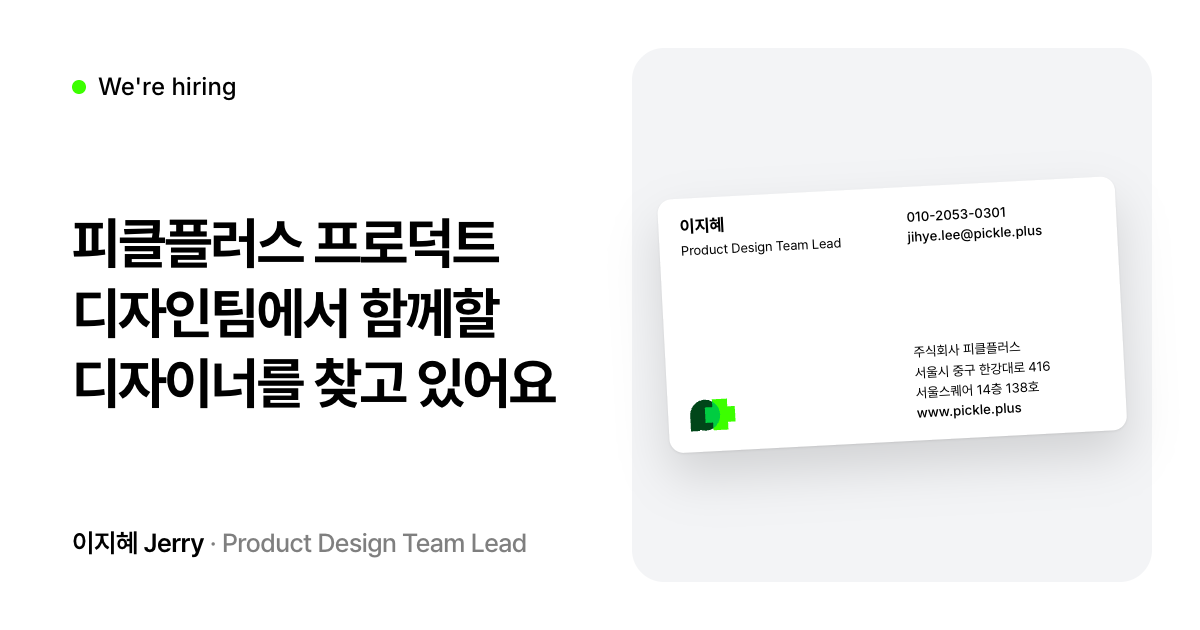
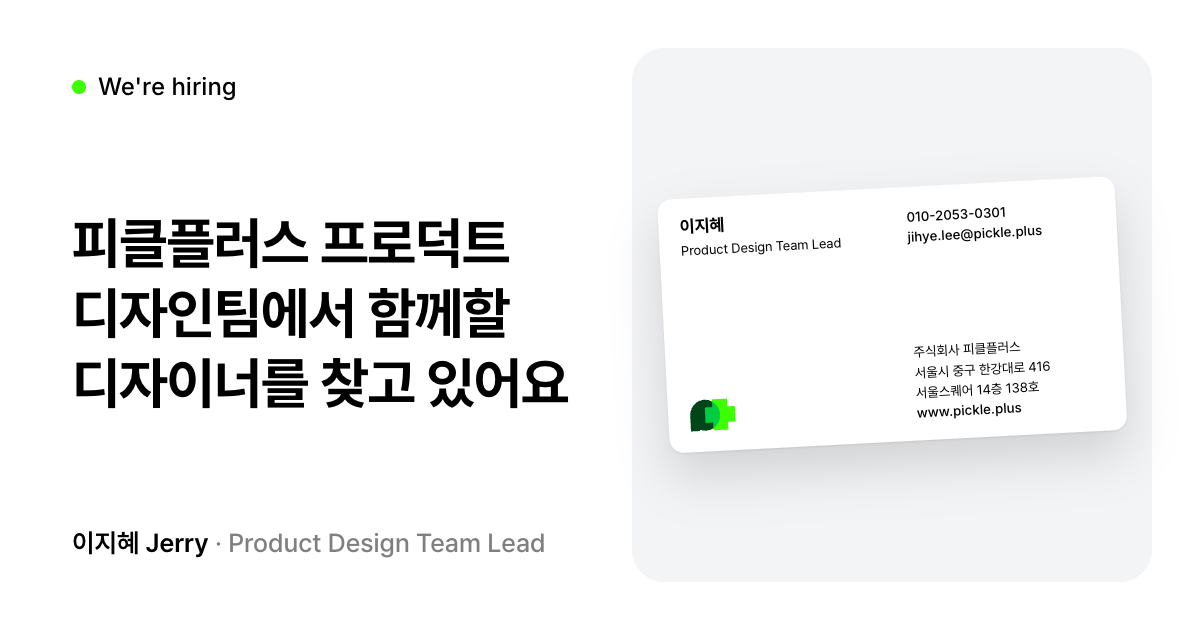
자간 줄이기(큰 제목 -0.02em, 나머지 0), 한국어 단어 단위 줄바꿈, OG 다시 찍기

diff --git a/index.html b/index.html
@@ -57,8 +57,9 @@
     font-family: var(--pretendard);
     font-size: 16px;
     font-weight: 500;
-    letter-spacing: -0.25px;
+    letter-spacing: 0;
     line-height: 1.4;
+    word-break: keep-all;   /* 한국어는 단어 단위로 줄바꿈 */
     -webkit-font-smoothing: antialiased;
   }
   button { font: inherit; color: inherit; background: none; border: 0; cursor: pointer; letter-spacing: inherit; }
@@ -77,7 +78,7 @@
     padding: var(--page) var(--page) 0;
   }
   .top a { transition: color .16s ease; }
-  .bio { padding: 8px var(--page) 0; color: var(--text-2); letter-spacing: -0.15px; }
+  .bio { padding: 8px var(--page) 0; color: var(--text-2); }
 
   /* ---------- 가운데: 카드 넘기기 ---------- */
   /* 카드 + 설명 한 줄을 한 묶음으로 세로 가운데에 놓음 */
@@ -170,7 +171,7 @@
 
   .frame-hint {
     position: absolute; left: 0; right: 0; bottom: 7cqw;
-    text-align: center; font-size: 4cqw; color: var(--text-2); letter-spacing: -0.02em;
+    text-align: center; font-size: 4cqw; color: var(--text-2);
   }
 
   /* 2. 채용 / 3. 커피챗 */
@@ -182,9 +183,9 @@
     padding: 7cqw;
   }
   .eyebrow { font-family: var(--inter); font-size: 4cqw; letter-spacing: 0; opacity: .7; }
-  .headline { font-size: 11cqw; font-weight: 700; line-height: 1.15; letter-spacing: -0.04em; }
-  .subline { margin-top: 2.5cqw; font-size: 4.4cqw; font-weight: 500; letter-spacing: -0.02em; opacity: .7; }
-  .poster-foot { display: flex; justify-content: space-between; align-items: center; font-size: 4.4cqw; font-weight: 600; letter-spacing: -0.02em; }
+  .headline { font-size: 11cqw; font-weight: 700; line-height: 1.15; letter-spacing: -0.02em; }
+  .subline { margin-top: 2.5cqw; font-size: 4.4cqw; font-weight: 500; opacity: .7; }
+  .poster-foot { display: flex; justify-content: space-between; align-items: center; font-size: 4.4cqw; font-weight: 600; }
   .frame--coffee .poster-foot .go { color: var(--pop-green); }
   .poster .mark { width: 12cqw; height: auto; }
 
@@ -255,7 +256,7 @@
   #form-area[hidden] { display: none; }
   .sheet-top { display: flex; justify-content: space-between; align-items: center; }
   .sheet-top .close { color: var(--text-2); }
-  .sheet h2 { font-size: 28px; font-weight: 700; line-height: 1.25; letter-spacing: -0.04em; }
+  .sheet h2 { font-size: 28px; font-weight: 700; line-height: 1.25; letter-spacing: -0.02em; }
   .sheet .lead { margin-top: 16px; color: var(--text-2); }
 
   form { flex: 1; display: flex; flex-direction: column; gap: 16px; margin-top: 28px; letter-spacing: 0; }
